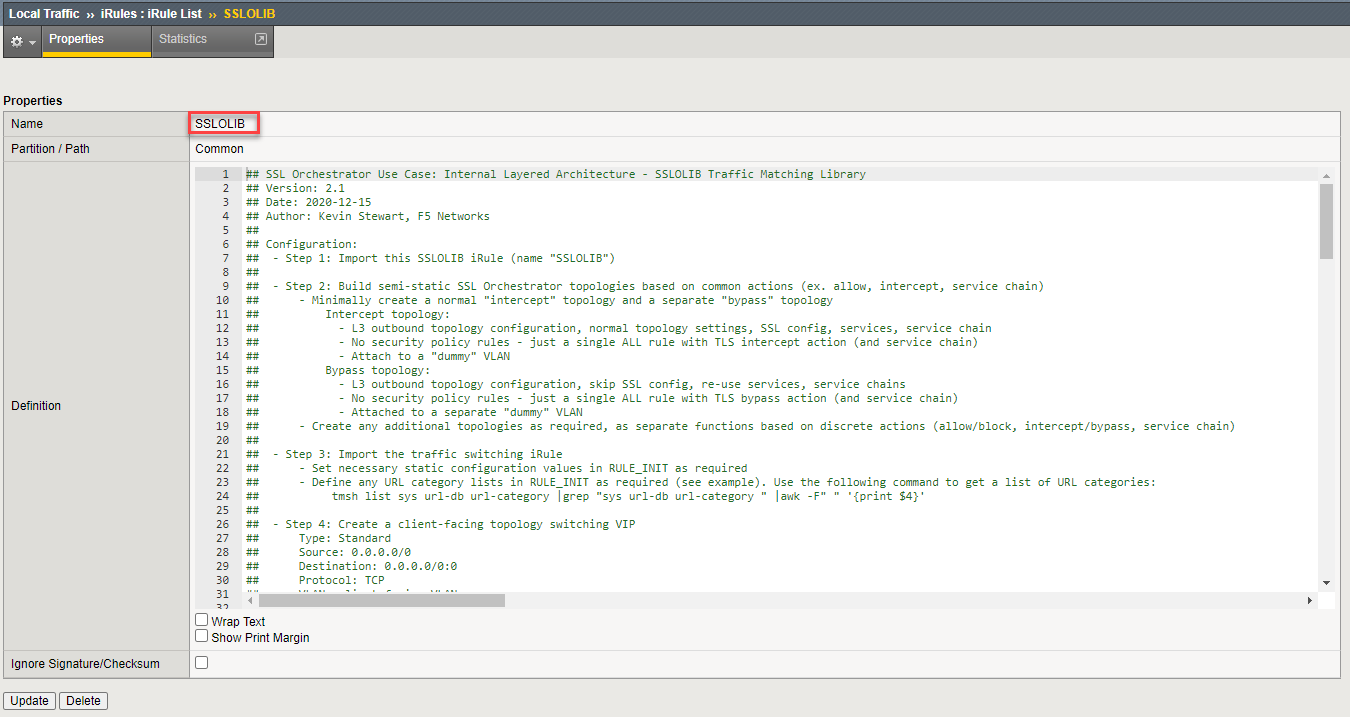
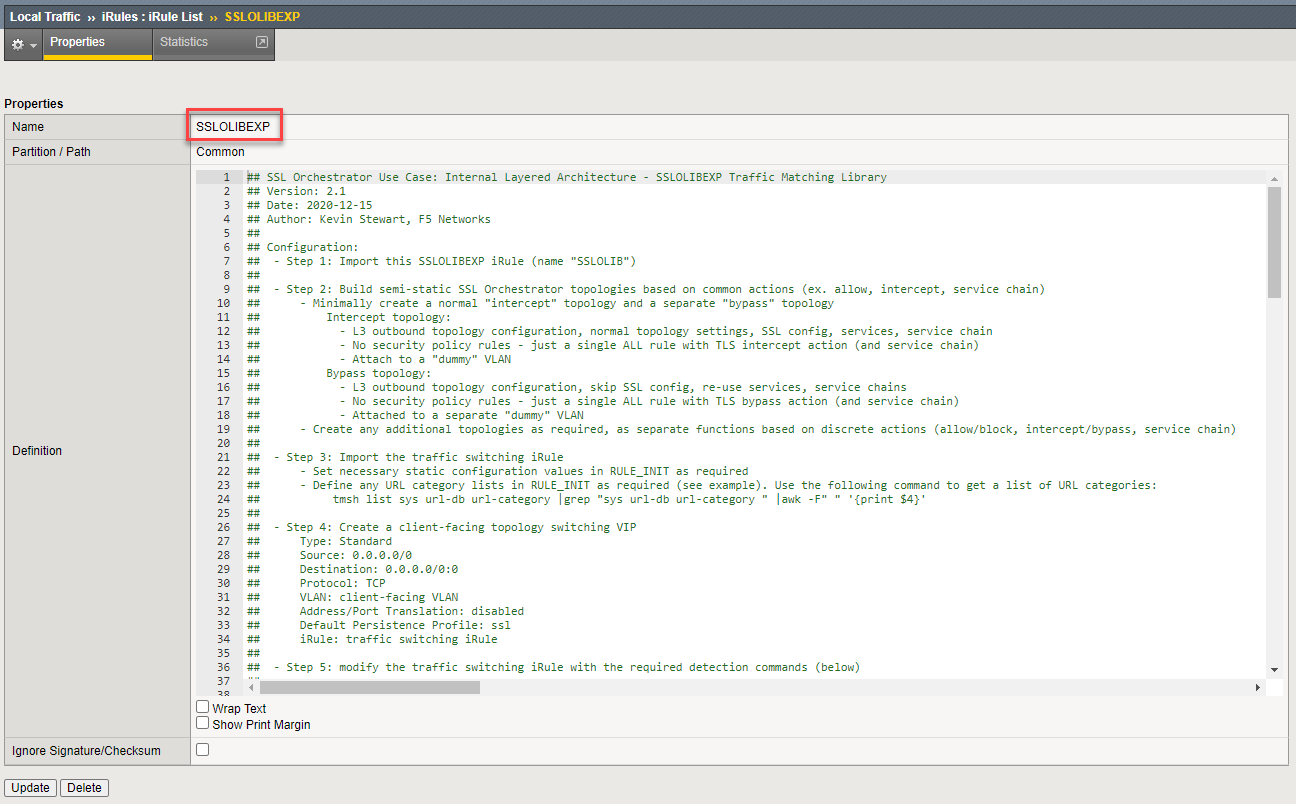
SSLO 201 updated layered architecture iRules

diff --git a/docs/class2/module3/lab4.rst b/docs/class2/module3/lab4.rst
@@ -1,16 +1,11 @@
 .. role:: red
 .. role:: bred
 
-Layered Virtual Server and Topology Steering iRule -- **BROKEN**
+Layered Virtual Server and Topology Steering iRule
 ================================================================================
 
-
-.. attention::
-   :bred:`This section currently does not produce a working configuration. The topology steering iRule needs to be tweaked for explicit proxy topologies. Stay tuned for an update shortly.`
-
-
 .. note::
-   The **SSLOLIB** and **sslo-layer-rule.tcl** files from the `f5devcentral/sslo-script-tools <https://github.com/f5devcentral/sslo-script-tools/tree/main/internal-layered-architecture>`_ Github repository have already been imported for you. You will review the contents of these iRules shortly.
+   The **SSLOLIBEXP** and **sslo-layering-explicit.tcl** files from the `f5devcentral/sslo-script-tools <https://github.com/f5devcentral/sslo-script-tools/tree/main/internal-layered-architecture>`_ Github repository have already been imported for you. You will review the contents of these iRules shortly.
 
 -  Navigate to  **Local Traffic > Virtual Servers > iRules > Datagroup List** to view the data groups.
 
@@ -39,21 +34,21 @@ The SSLOLIB iRule contains functions that allow the topology steering rule to ea
 
 |
 
-The topology steering iRule ('SSLO-Topology-Director') contains your steering logic and defines the topology steering conditions.
+The topology steering iRule contains your steering logic and defines the topology steering conditions.
 
--  Modify the **SSLO-Topology-Director** iRule with the following values:
+-  Modify the **SSLO-layering-explicit** iRule with the following values:
 
-   -  **Line 21:** Replace ``intercept`` with ``f5labs_explicit``. This defines the default SSL Orchestrator topology to use (if there is no other match).
-   -  Insert 2 blank lines after **line 39**.
-   -  Copy **line 43** into **line 40**.
-   -  **Line 40**: Uncomment this line by removing the '#' from the beginning of the line.
-   -  **Line 40**: Replace ``my-srcip-dg`` with ``appserver_list``. This defines the data group to check for source address matches.
-   -  **Line 40**: Replace ``bypass`` with ``appsvr_explicit``. This defines the topology to use if there is a source address match.
+   -  **Line 21:** Replace ``interceptexp`` with ``f5labs_explicit``. This defines the default SSL Orchestrator topology to use (if there is no other match).
+   -  Insert 2 blank lines after **line 41**.
+   -  Copy **line 45** into **line 41**.
+   -  **Line 41**: Uncomment this line by removing the '#' from the beginning of the line.
+   -  **Line 41**: Replace ``my-srcip-dg`` with ``appserver_list``. This defines the data group to check for source address matches.
+   -  **Line 41**: Replace ``bypassexp`` with ``appsvr_explicit``. This defines the topology to use if there is a source address match.
 
 .. attention::
    Ensure that there are not typographical errors in the iRule, or it will not function properly.
 
-.. image:: ../images/irule-topology-director.png
+.. image:: ../images/irule-layering-explicit.png
    :alt: Changes to SSLO-Topology-Director iRule
 
 -  Click on the **Update** button to save the iRule changes.
@@ -73,8 +68,8 @@ The topology steering iRule ('SSLO-Topology-Director') contains your steering lo
    -  VLAN and Tunnel Traffic > **Enabled On...**: **client-vlan**
    -  Address Translation: **disabled**
    -  Port Translation: **disabled**
-   -  Default Persistence Profile: **ssl**
-   -  iRule: **SSLO-Topology-Director**
+   
+   -  iRule: **SSLO-layering-explicit**
 
 .. image:: ../images/topology-director-vs-1.png
    :alt: 
